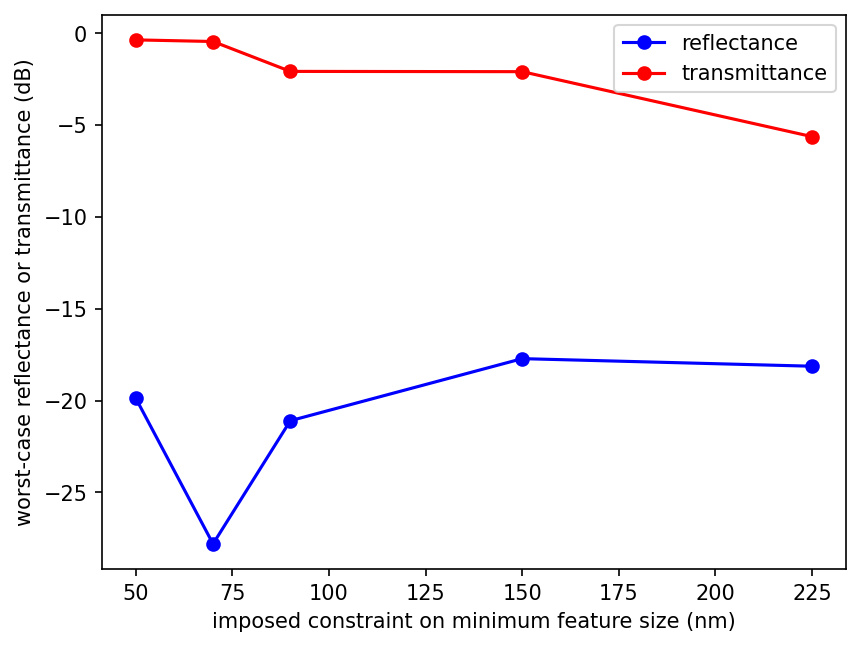
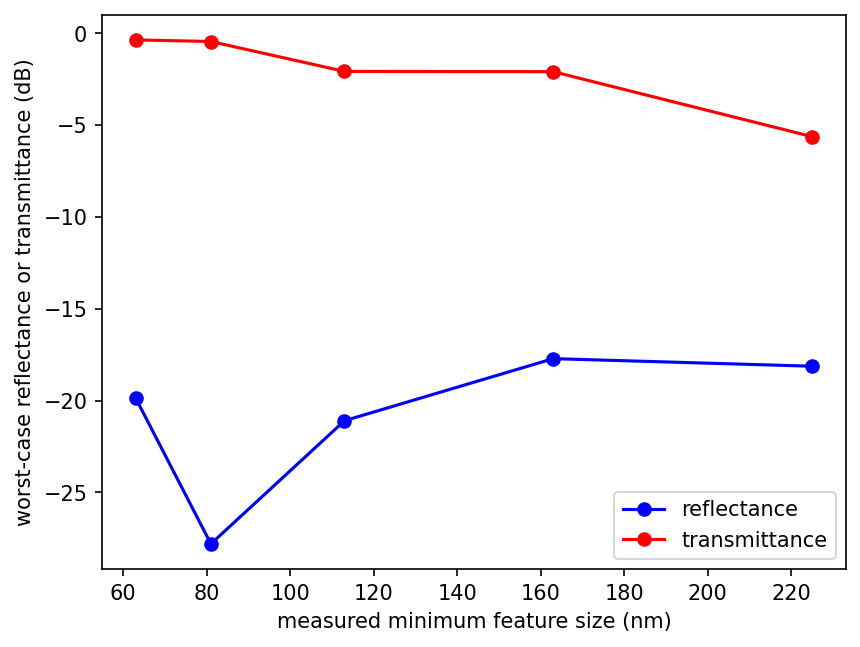
switch from imposed constraint to measured minimum feature size in plot axis

diff --git a/doc/docs/Python_Tutorials/Adjoint_Solver.md b/doc/docs/Python_Tutorials/Adjoint_Solver.md
@@ -163,10 +163,10 @@ the two sets of values except for the design with the largest minimum
 feature size (225 nm vs. 275 nm). For cases in which the measured
 feature size is significantly *larger* than the constraint used in the
 optimization, this could be an indication that the final design can be
-improved by a better choice of the hyperparameters in the constraint
-function. Generally, one should expect the constraint and measured
-values to agree within a length of about one to two design-region
-pixels (10 nm, in this example).
+improved by a better choice of the hyperparameters in the feature-size
+constraint function. Generally, one should expect the constraint and
+measured values to agree within a length of about one to two
+design-region pixels (10 nm, in this example).
 
 | constraint (nm) | measured (nm) |
 |:---------------:|:-------------:|
@@ -177,10 +177,10 @@ pixels (10 nm, in this example).
 |       225       |      275      |
 
 Finally, a plot of the worst-case reflectance and transmittance versus
-imposed constraint on the minimum feature size is shown below for the
-five designs. The general trend of decreasing performance (i.e.,
-increasing reflectance and decreasing transmittance) with increasing
-minimum feature size is evident.
+the measured minimum feature size is shown below for the five
+designs. The general trend of decreasing performance (i.e., increasing
+reflectance and decreasing transmittance) with increasing minimum
+feature size is evident.
 
 ![](../images/mode_converter_worst_case_refl_tran.png#center)
 
